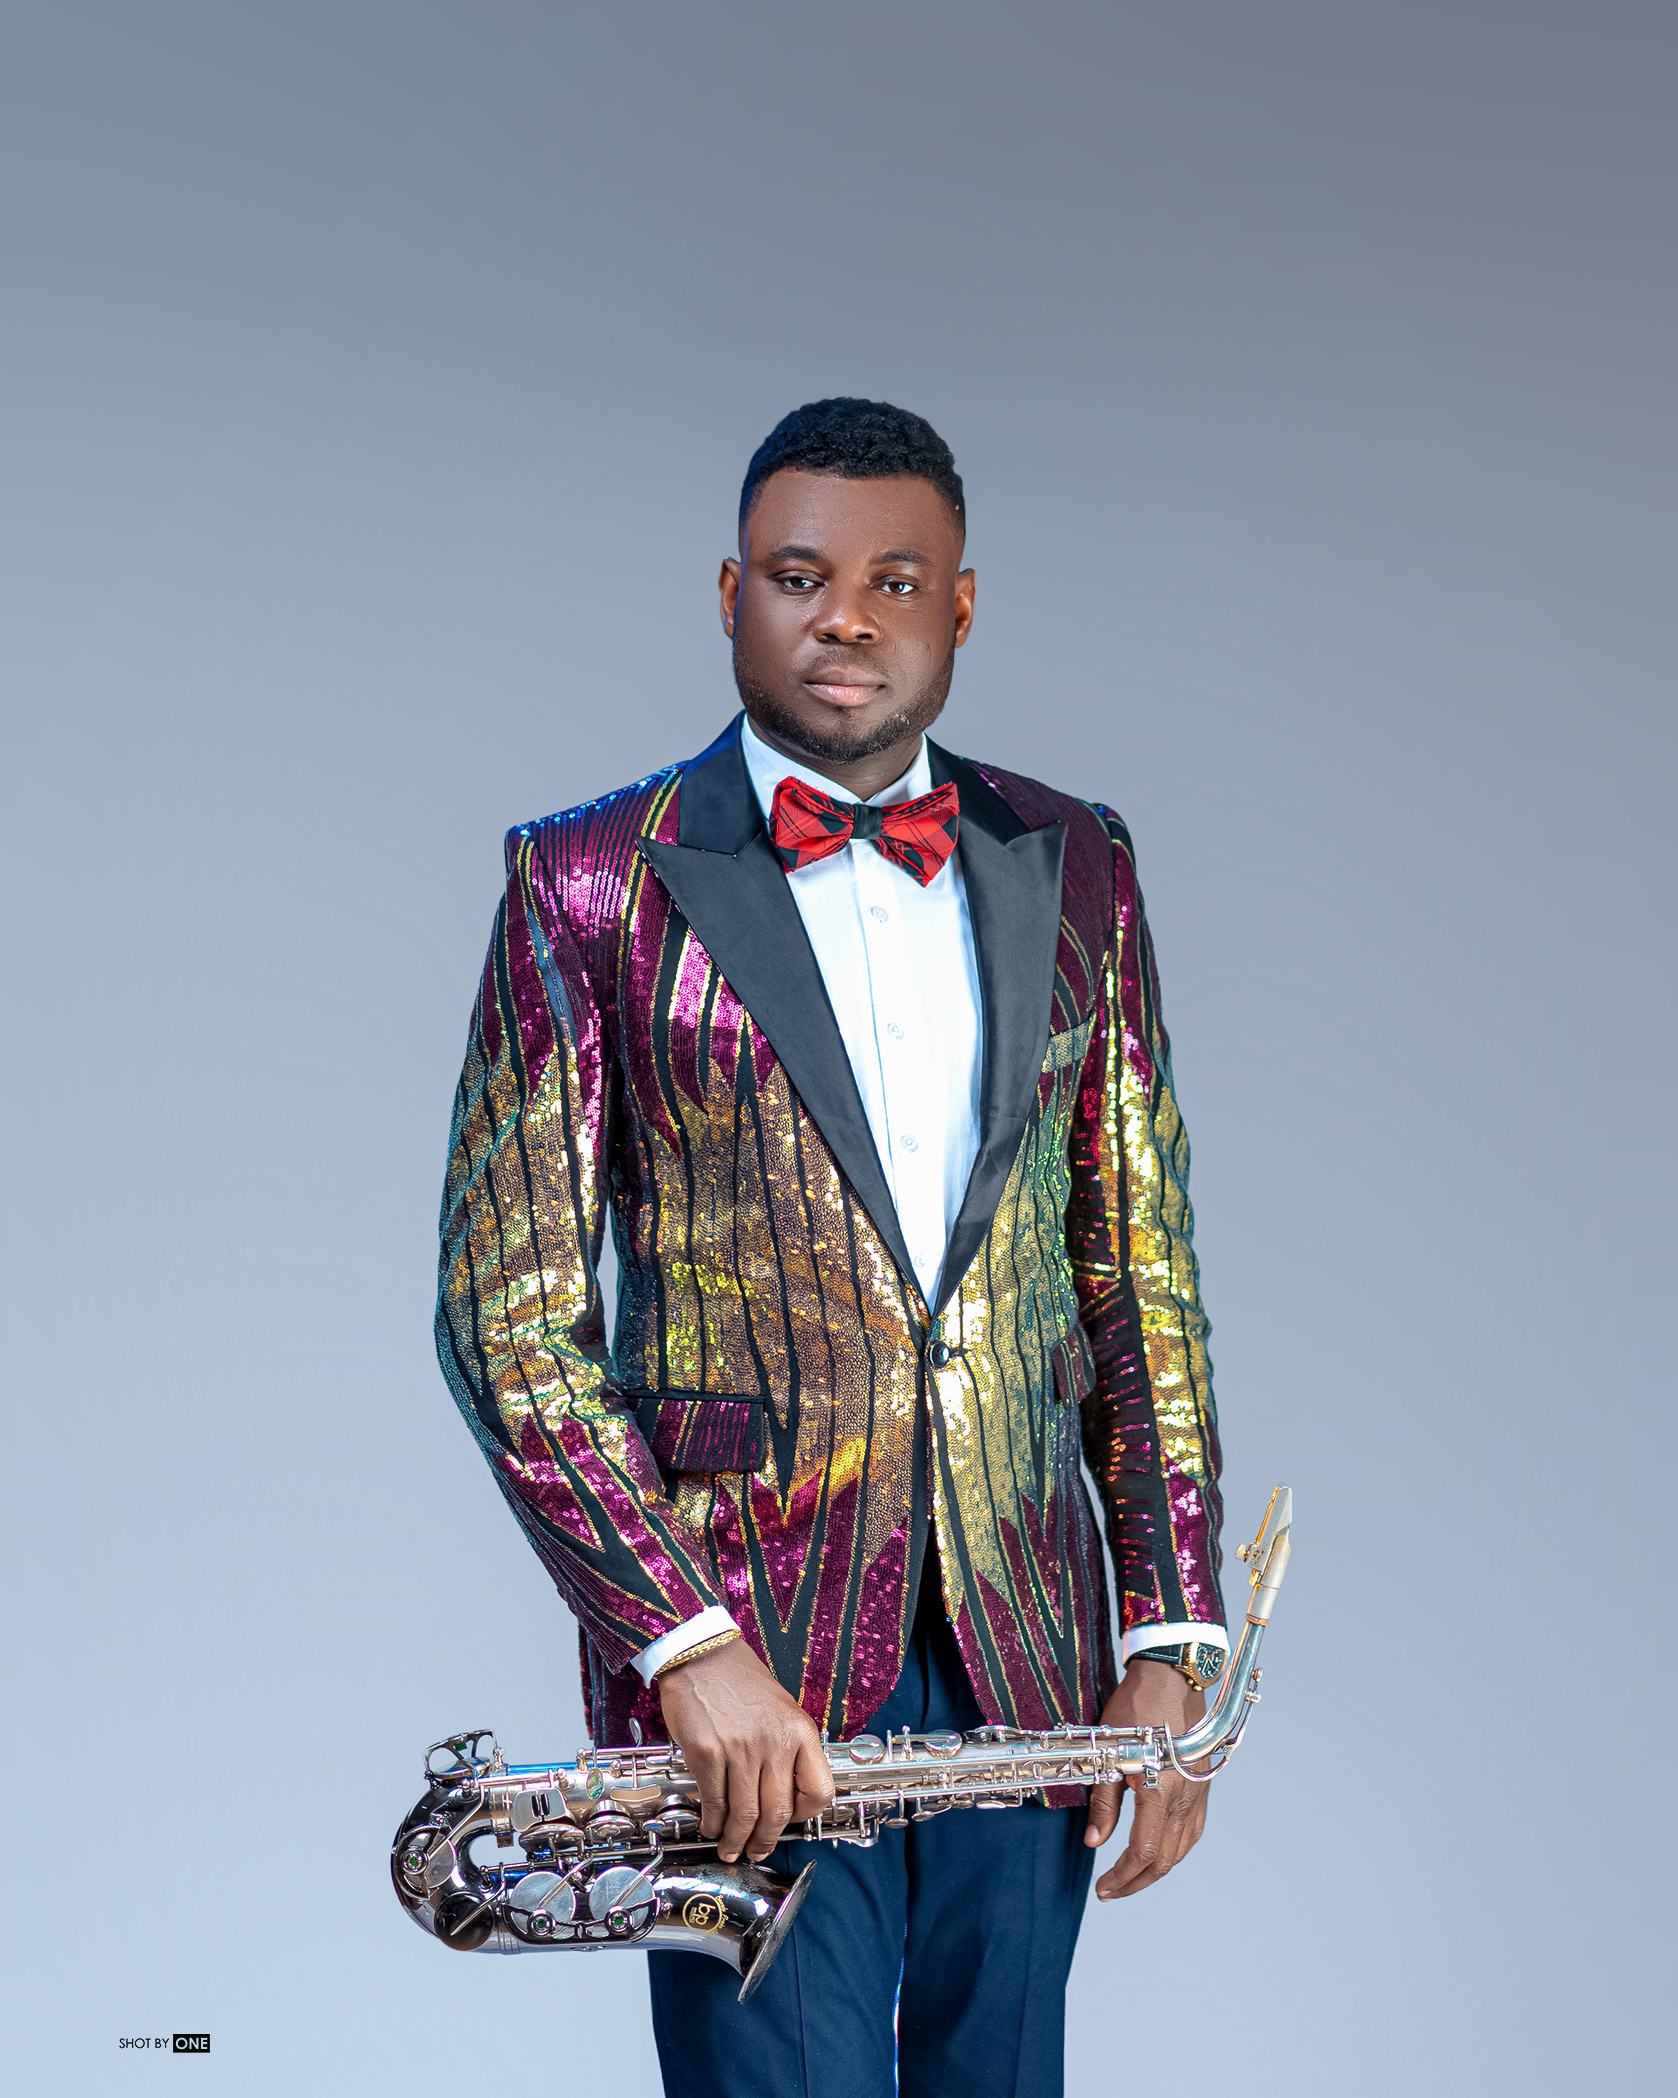
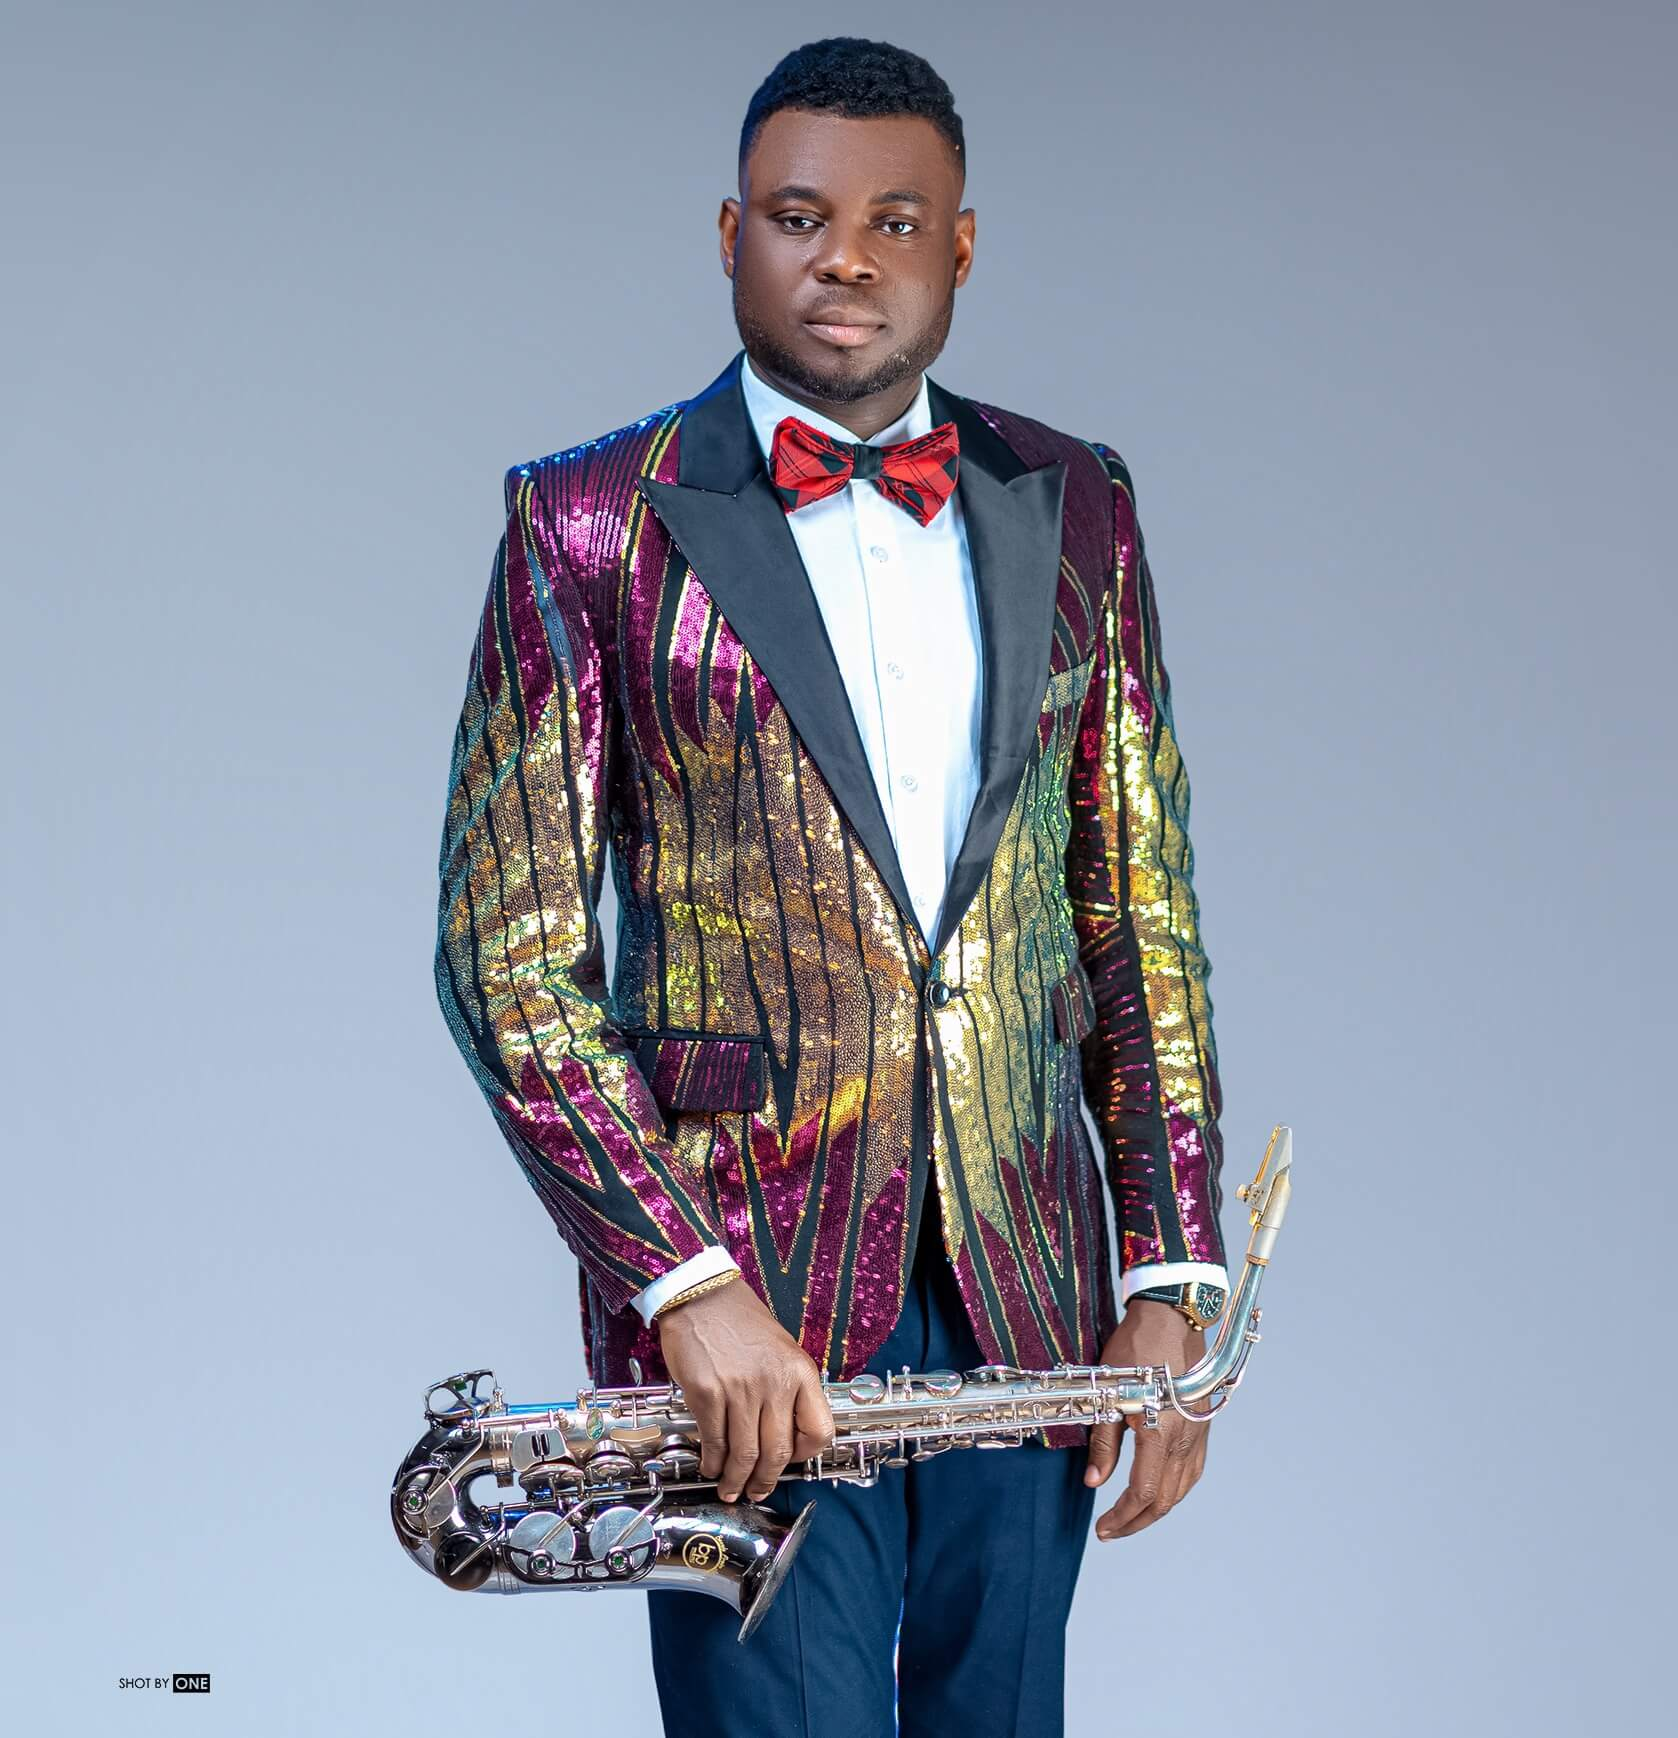
image size reduction for better performance

diff --git a/app/(main)/contact/page.tsx b/app/(main)/contact/page.tsx
@@ -307,12 +307,12 @@ export default function ContactPage() {
       <section className="contact-hero">
         <div className="contact-hero-bg">
           <Image
-            src="/contact-hero.jpg"
+            src="/carousel1.jpg"
             alt="Contact BePraize Sax"
             fill
             priority
             sizes="100vw"
-            style={{ objectFit: "cover", objectPosition: "center 12%" }}
+            style={{ objectFit: "cover", objectPosition: "center 7%" }}
           />
           <div className="contact-hero-overlay" />
         </div>

diff --git a/app/(main)/page.tsx b/app/(main)/page.tsx
@@ -268,6 +268,7 @@ const CSS = `
 
 const GALLERY = [
   "/carousel1.jpg",
+  "/carou_sel.jpg",
   "/carousel2.jpg",
   "/contact-hero.jpg",
   "/home-hero.jpg",
@@ -331,7 +332,7 @@ export default function HomePage() {
             fill
             priority
             sizes="100vw"
-            style={{ objectFit: "cover", objectPosition: "center 20%" }}
+            style={{ objectFit: "cover", objectPosition: "center top" }}
           />
           <div className="hp-hero-overlay" />
         </div>

diff --git a/app/(main)/about/page.tsx b/app/(main)/about/page.tsx
@@ -259,7 +259,7 @@ export default function AboutPage() {
             alt="BePraize Sax"
             fill
             priority
-            style={{ objectFit: "cover", objectPosition: "center 30%" }}
+            style={{ objectFit: "cover", objectPosition: "center top" }}
           />
           <div className="about-hero-overlay" />
         </div>

diff --git a/app/admin/(dashboard)/page.tsx b/app/admin/(dashboard)/page.tsx
@@ -2611,7 +2611,7 @@ export default function AdminPage() {
                     Dashboard
                   </h1>
                   <p style={{ fontSize: 14, color: C.muted, marginBottom: 28 }}>
-                    Live platform metrics from MongoDB
+                    Live platform metrics
                   </p>
 
                   <p
